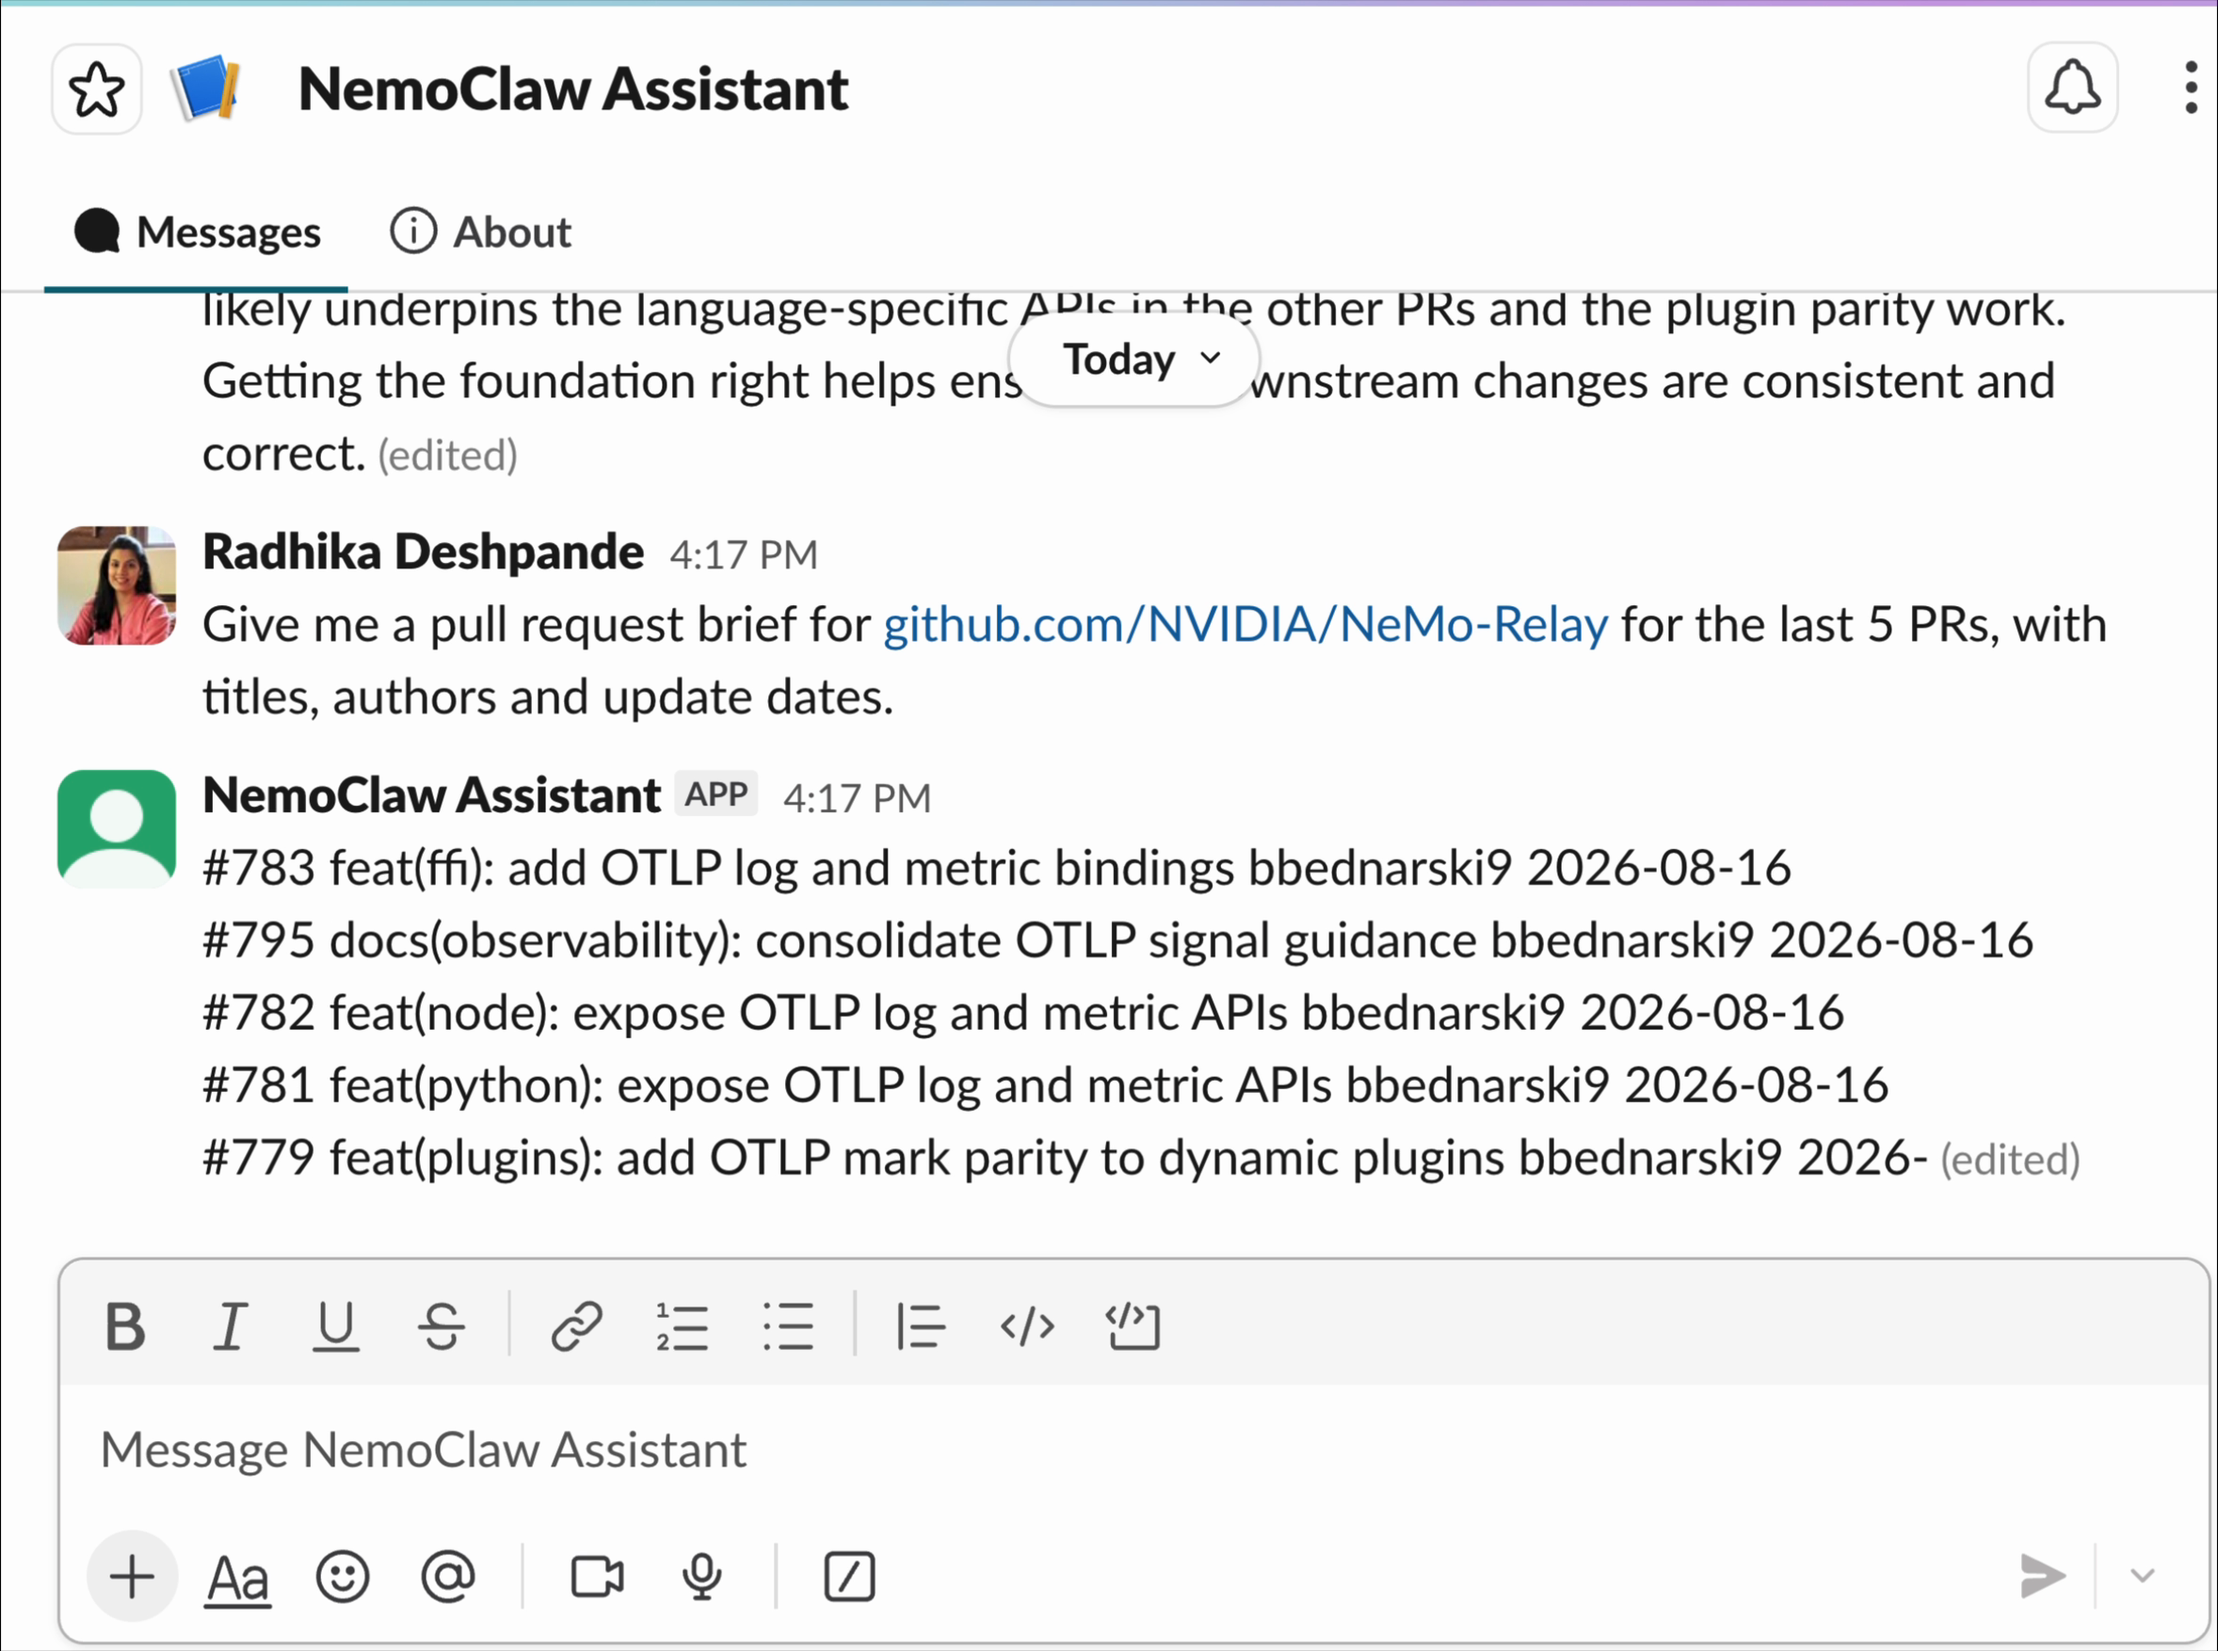
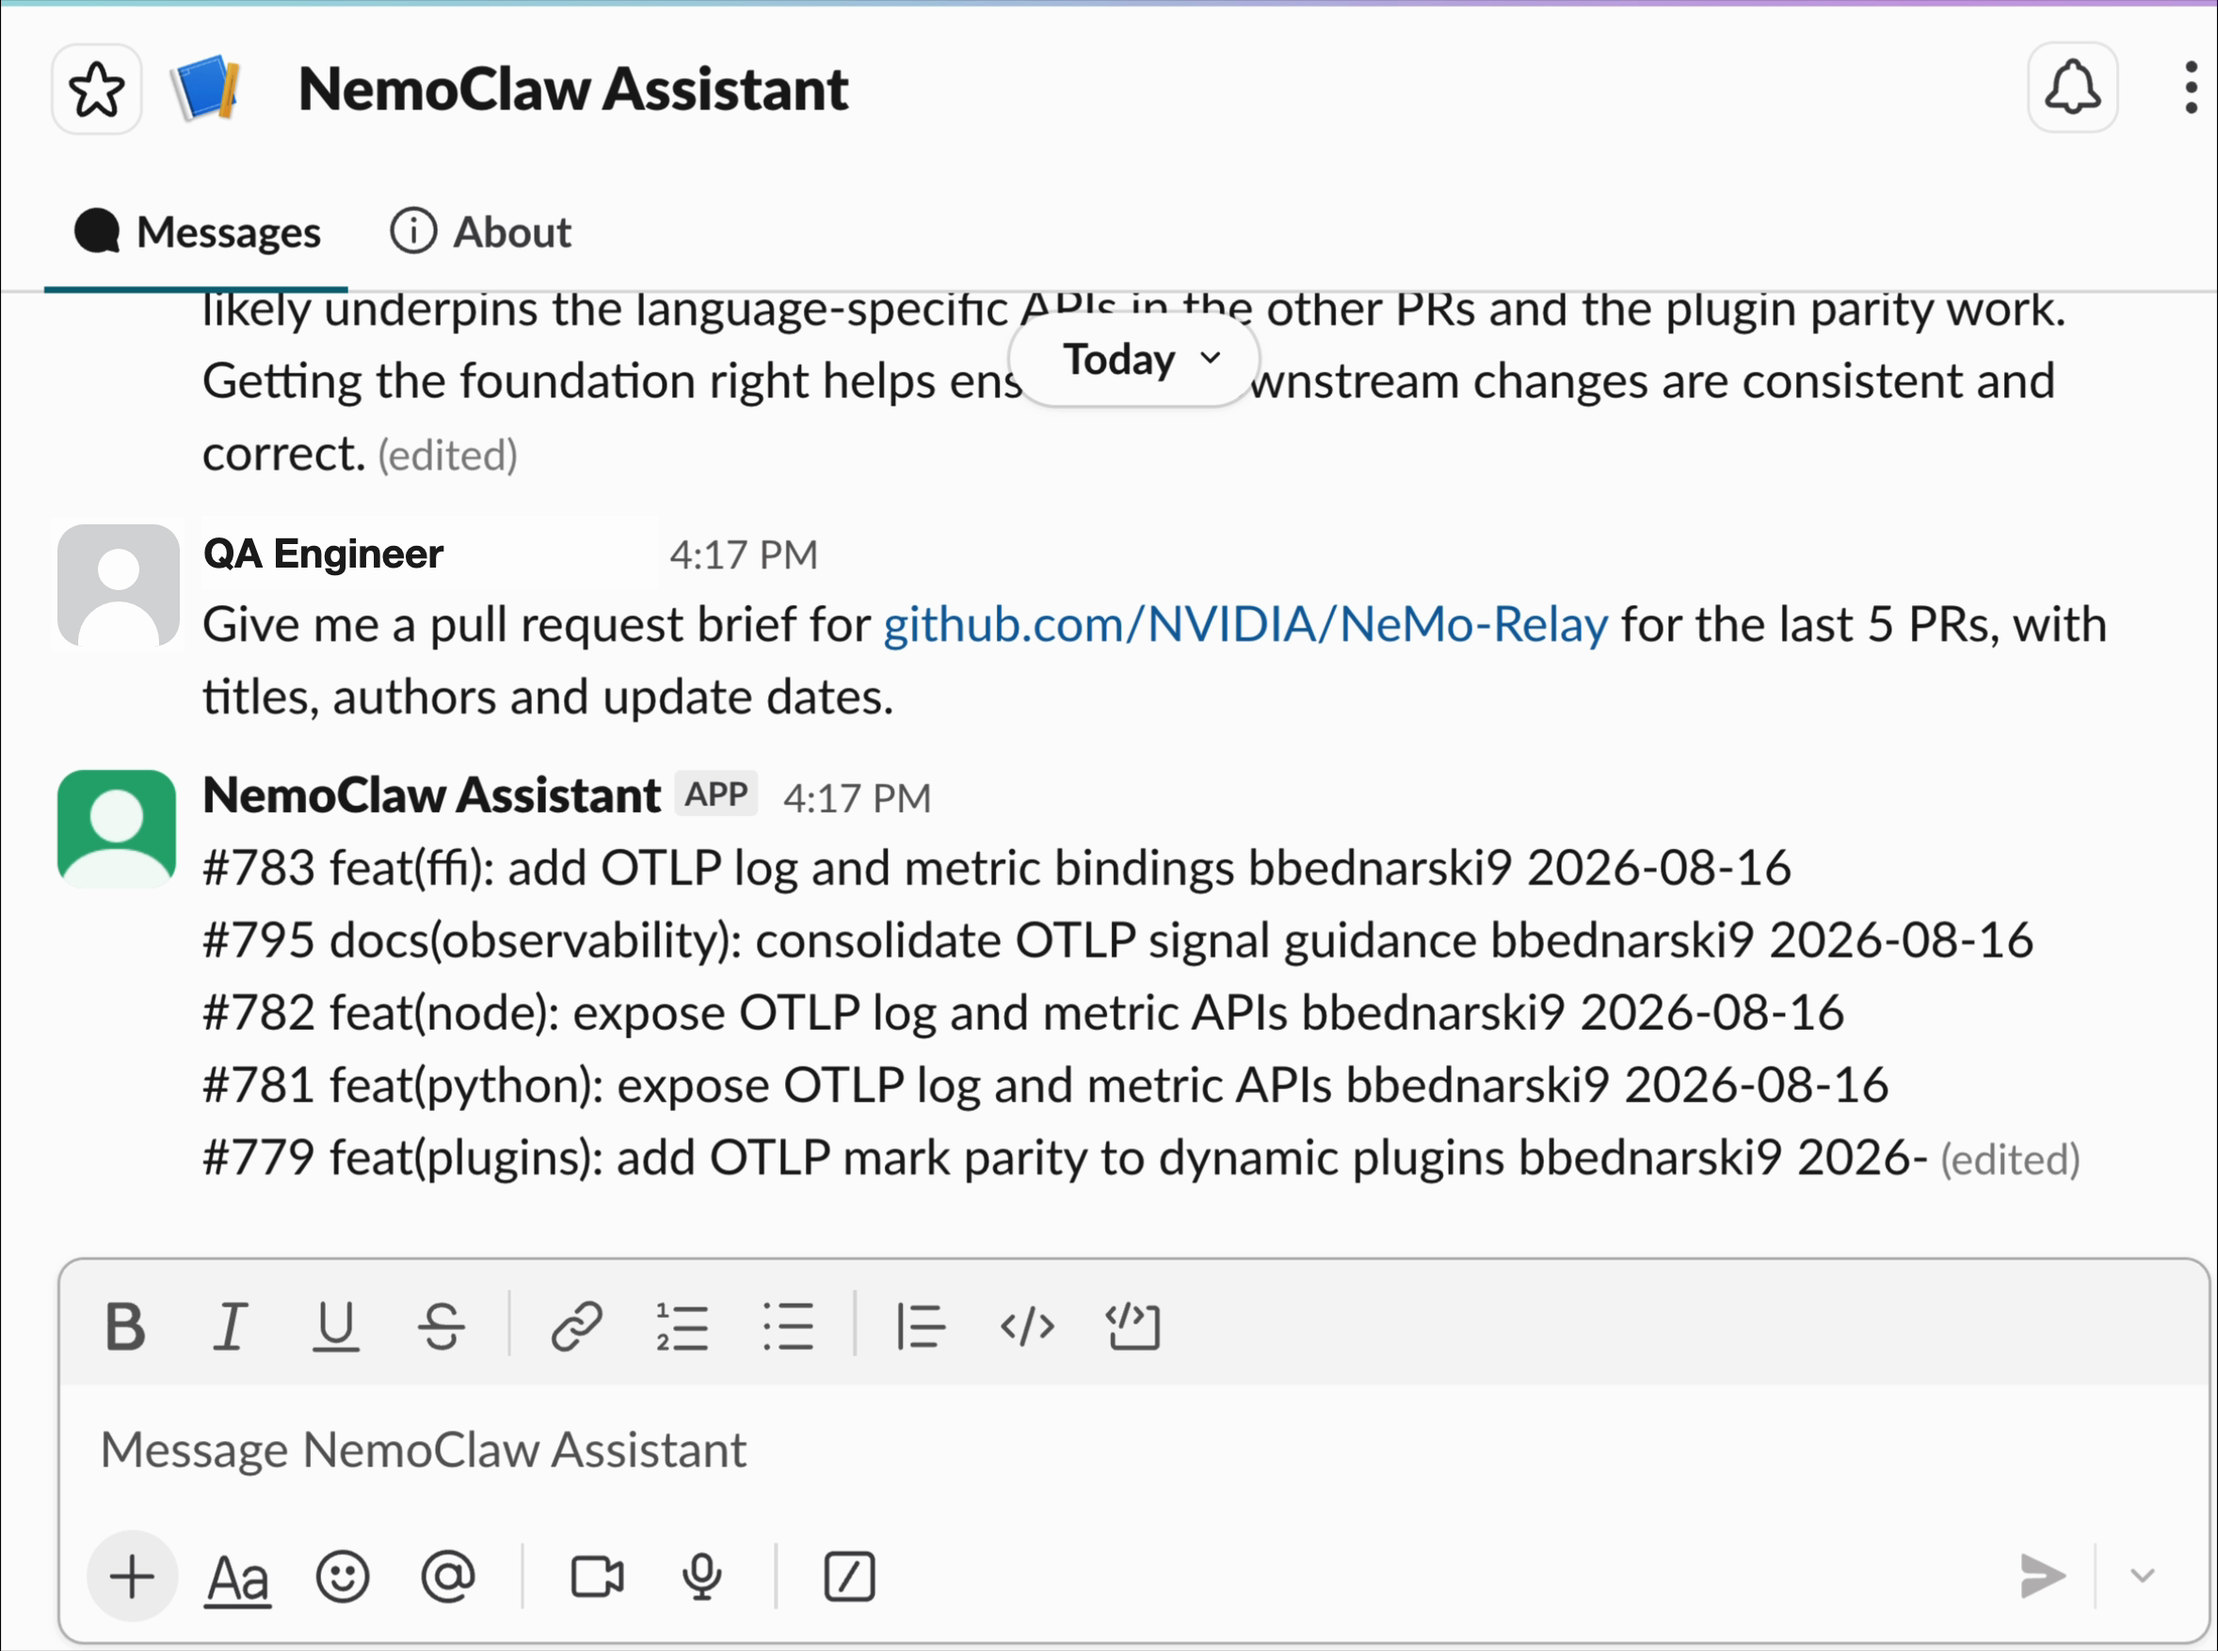
fix(pr-test-case-assistant): replace the requester identity in both screenshots
Both checked-in screenshots showed a real display name and profile photo, which
the repository's screenshot guidance does not allow in a public example.

The name and avatar are now a placeholder identity composited over the original
captures. Everything else is untouched: pull request numbers, titles, GitHub
authors, dates, Slack timestamps, and the assistant's replies, so the images
still evidence a real run. The README states what was replaced.

Changed region(s): [[0.0, 0.3079, 0.2789, 0.4002]]

diff --git a/examples/recipes/nvidia/pr-test-case-assistant/README.md b/examples/recipes/nvidia/pr-test-case-assistant/README.md
@@ -37,6 +37,11 @@ assumptions.
 Both screenshots were captured while the reply was still streaming, so Slack
 marks the message `(edited)`.
 
+The requester's display name and profile photo are replaced with a placeholder
+identity. Everything else is the original capture: the pull request numbers,
+titles, GitHub authors, dates, timestamps, and the assistant's replies are
+unmodified.
+
 ## At A Glance
 
 | Question | Answer |
